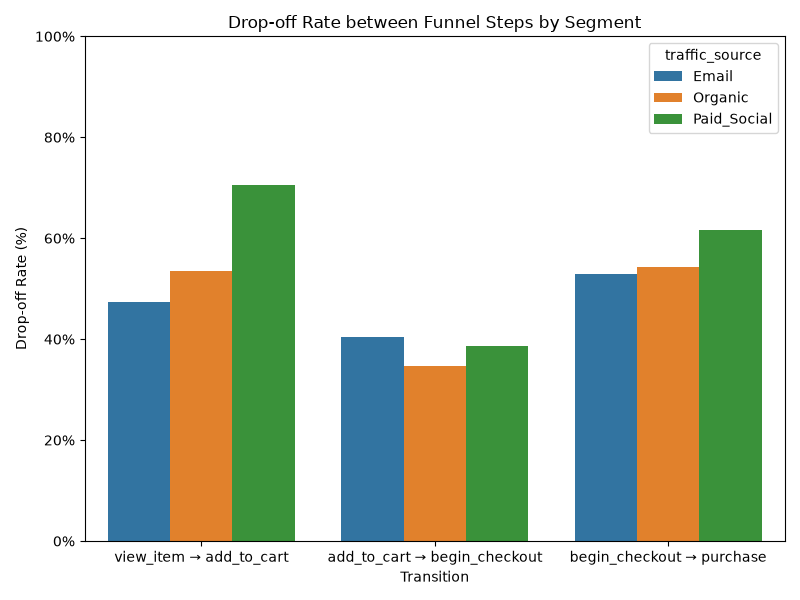
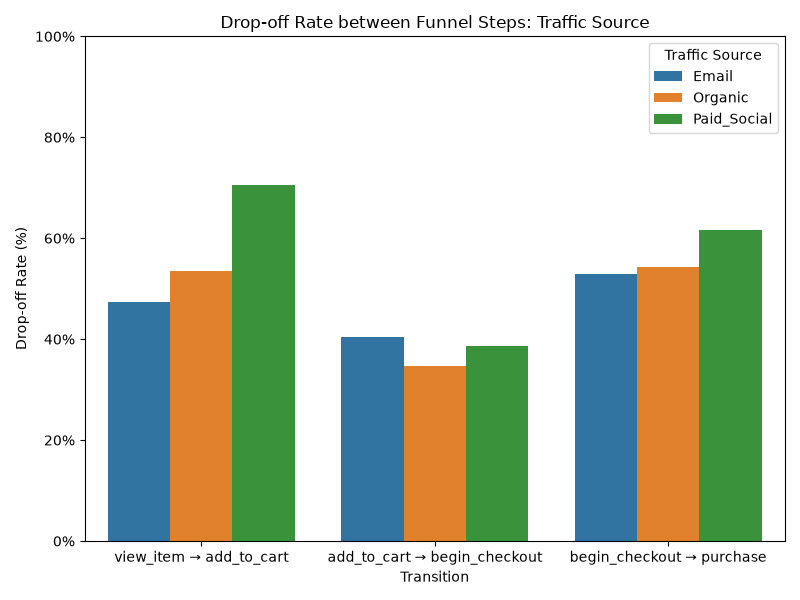
refactor: improve segmented funnel chart labels

Changed region(s): [[0.2812, 0.03, 0.8125, 0.06], [0.8438, 0.06, 0.9375, 0.12]]

diff --git a/funnel_analysis/main.py b/funnel_analysis/main.py
@@ -246,7 +246,11 @@ def visualize_segment(
         ax=ax,
     )
 
-    ax.set_title("Drop-off Rate between Funnel Steps by Segment")
+    segment_label = segment.replace("_", " ").title()
+
+    ax.set_title(f"Drop-off Rate between Funnel Steps by {segment_label}")
+    ax.legend(title=segment_label)
+
     ax.set_ylim(0, 1.0)
     ax.yaxis.set_major_formatter(PercentFormatter(xmax=1.0))
     ax.set_xlabel("Transition")
